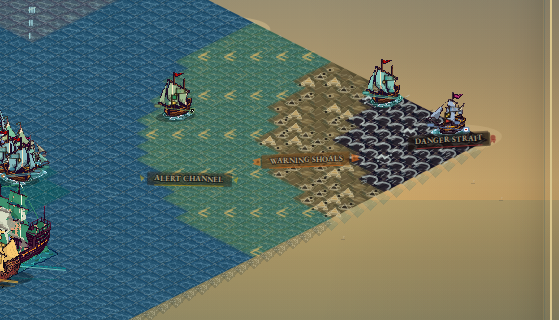
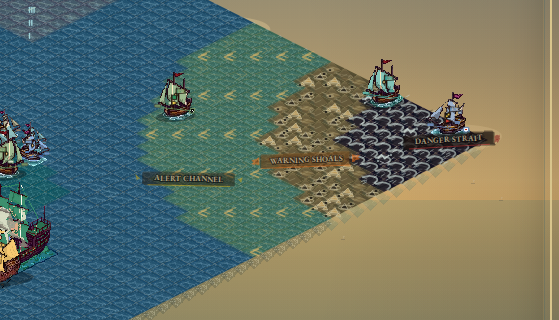
Drop moored-dinghy-north scenery + retire procedural titan/heritage trim
Two related cleanups that had been sitting in the working tree:

1. **Remove moored-dinghy-north scenery.** Drop the `moored-dinghy-north`
   member from `SceneryPropKind`, the placement at (30.4, 41.6), the
   motion-class row, and the dispatch branch in `drawSceneryProp`. The
   associated `props/moored-dinghy-north.png` is no longer referenced
   (manifest entry stays — separate cleanup if desired).

2. **Strip procedural trim from titan + heritage sprites.** Sail trim is
   now baked directly into the painted PNGs, so the runtime overlay
   would just paint duplicate rails/keels/sterns/decks at slightly
   wrong offsets. Removed every titan + unique row from
   `SHIP_TRIM_MARKS` (the 5 standard hulls keep their entries); emptied
   `SHIP_TRIM_COLOR_STORIES`. The drawer in `ships/livery.ts:56` already
   gates on `if (!spec) return;` so the change automatically skips the
   trim pass for these hulls — confirmed by the rewritten
   `drawShipBody titan trim` test that asserts zero `stroke` / `lineTo`
   / `rect` calls.

Test scaffolding updated to match (offset-table tests no longer assert
`SHIP_TRIM_MARKS` for titans/heritage; new `sprite trim config` test
enumerates the 17 painted-detail sprites and asserts the absence).
Visual snapshot for the dense-risk-water fixture rebaked since the
moored-dinghy-north placement was inside its frame.

diff --git a/src/renderer/ship-visual-config.ts b/src/renderer/ship-visual-config.ts
@@ -198,6 +198,9 @@ export const PROCEDURAL_SHIP_PENNANT_MARK: ShipPennantSpec = {
 };
 
 export const SHIP_TRIM_MARKS: Record<string, ShipTrimSpec> = {
+  // Standard hulls only — titan and heritage sprites have their trim baked
+  // directly into the PNG, so the runtime path skips them via the
+  // `if (!spec) return;` gate in `ships/livery.ts:drawTitanTrim`.
   "algo-junk": {
     rail: [-24, -13, 21, -8],
     keel: [-22, -3, 18, 0],
@@ -228,176 +231,11 @@ export const SHIP_TRIM_MARKS: Record<string, ShipTrimSpec> = {
     stern: { x: -31, y: -19, width: 10, height: 5 },
     deck: [{ x: -10, y: -23, width: 8, height: 4 }, { x: 8, y: -21, width: 7, height: 3 }],
   },
-  "ship.usdc-titan": {
-    rail: [-43, -15, 39, -8],
-    keel: [-39, -3, 35, 0],
-    stern: { x: -48, y: -20, width: 11, height: 5 },
-    deck: [{ x: -13, y: -23, width: 9, height: 4 }, { x: 11, y: -20, width: 8, height: 3 }],
-  },
-  "ship.usde-titan": {
-    rail: [-43, -15, 39, -8],
-    keel: [-39, -3, 35, 0],
-    stern: { x: -48, y: -20, width: 11, height: 5 },
-    deck: [{ x: -13, y: -23, width: 9, height: 4 }, { x: 11, y: -20, width: 8, height: 3 }],
-  },
-  "ship.susde-titan": {
-    rail: [-43, -15, 39, -8],
-    keel: [-39, -3, 35, 0],
-    stern: { x: -48, y: -20, width: 11, height: 5 },
-    deck: [{ x: -13, y: -23, width: 9, height: 4 }, { x: 11, y: -20, width: 8, height: 3 }],
-  },
-  "ship.pyusd-titan": {
-    rail: [-43, -15, 39, -8],
-    keel: [-39, -3, 35, 0],
-    stern: { x: -48, y: -20, width: 11, height: 5 },
-    deck: [{ x: -13, y: -23, width: 9, height: 4 }, { x: 11, y: -20, width: 8, height: 3 }],
-  },
-  "ship.usd1-titan": {
-    rail: [-43, -15, 39, -8],
-    keel: [-39, -3, 35, 0],
-    stern: { x: -48, y: -20, width: 11, height: 5 },
-    deck: [{ x: -13, y: -23, width: 9, height: 4 }, { x: 11, y: -20, width: 8, height: 3 }],
-  },
-  "ship.buidl-titan": {
-    rail: [-43, -15, 39, -8],
-    keel: [-39, -3, 35, 0],
-    stern: { x: -48, y: -20, width: 11, height: 5 },
-    deck: [{ x: -13, y: -23, width: 9, height: 4 }, { x: 11, y: -20, width: 8, height: 3 }],
-  },
-  "ship.usyc-unique": {
-    rail: [-43, -15, 39, -8],
-    keel: [-39, -3, 35, 0],
-    stern: { x: -48, y: -20, width: 11, height: 5 },
-    deck: [{ x: -13, y: -23, width: 9, height: 4 }, { x: 11, y: -20, width: 8, height: 3 }],
-  },
-  "ship.usds-titan": {
-    rail: [-44, -18, 40, -8],
-    keel: [-40, -5, 35, 0],
-    stern: { x: -48, y: -26, width: 14, height: 6 },
-    deck: [{ x: -14, y: -29, width: 11, height: 5 }, { x: 12, y: -25, width: 10, height: 4 }],
-  },
-  "ship.usdt-titan": {
-    rail: [-66, -23, 61, -12],
-    keel: [-60, -5, 53, 0],
-    stern: { x: -74, y: -31, width: 18, height: 8 },
-    deck: [{ x: -23, y: -35, width: 15, height: 7 }, { x: 16, y: -30, width: 13, height: 6 }],
-  },
-  // Maker consorts seeded from ship.usds-titan; tuning in Task 7.5.
-  "ship.dai-titan": {
-    rail: [-44, -18, 40, -8],
-    keel: [-40, -5, 35, 0],
-    stern: { x: -48, y: -26, width: 14, height: 6 },
-    deck: [{ x: -14, y: -29, width: 11, height: 5 }, { x: 12, y: -25, width: 10, height: 4 }],
-  },
-  "ship.susds-titan": {
-    rail: [-44, -18, 40, -8],
-    keel: [-40, -5, 35, 0],
-    stern: { x: -48, y: -26, width: 14, height: 6 },
-    deck: [{ x: -14, y: -29, width: 11, height: 5 }, { x: 12, y: -25, width: 10, height: 4 }],
-  },
-  "ship.sdai-titan": {
-    rail: [-44, -18, 40, -8],
-    keel: [-40, -5, 35, 0],
-    stern: { x: -48, y: -26, width: 14, height: 6 },
-    deck: [{ x: -14, y: -29, width: 11, height: 5 }, { x: 12, y: -25, width: 10, height: 4 }],
-  },
-  "ship.stusds-titan": {
-    rail: [-44, -18, 40, -8],
-    keel: [-40, -5, 35, 0],
-    stern: { x: -48, y: -26, width: 14, height: 6 },
-    deck: [{ x: -14, y: -29, width: 11, height: 5 }, { x: 12, y: -25, width: 10, height: 4 }],
-  },
-  // Unique heritage hulls (136x100, anchor [68,92]). Trim offsets sit between
-  // the standard galleon (104x80) and the titan hulls (144x104+).
-  "ship.crvusd-unique": {
-    rail: [-38, -16, 36, -7],
-    keel: [-36, -4, 32, 0],
-    stern: { x: -42, y: -22, width: 12, height: 5 },
-    deck: [{ x: -12, y: -25, width: 10, height: 4 }, { x: 10, y: -22, width: 9, height: 4 }],
-  },
-  "ship.bold-unique": {
-    rail: [-38, -16, 36, -7],
-    keel: [-36, -4, 32, 0],
-    stern: { x: -42, y: -23, width: 12, height: 5 },
-    deck: [{ x: -12, y: -26, width: 10, height: 4 }, { x: 10, y: -23, width: 9, height: 4 }],
-  },
-  "ship.fxusd-unique": {
-    rail: [-38, -15, 36, -7],
-    keel: [-36, -4, 32, 0],
-    stern: { x: -42, y: -21, width: 12, height: 5 },
-    deck: [{ x: -12, y: -24, width: 10, height: 4 }, { x: 10, y: -21, width: 9, height: 4 }],
-  },
-  "ship.xaut-unique": {
-    rail: [-38, -14, 36, -6],
-    keel: [-36, -3, 32, 0],
-    stern: { x: -42, y: -19, width: 12, height: 5 },
-    deck: [{ x: -12, y: -22, width: 10, height: 4 }, { x: 10, y: -19, width: 9, height: 4 }],
-  },
-  "ship.paxg-unique": {
-    rail: [-38, -17, 36, -8],
-    keel: [-36, -4, 32, 0],
-    stern: { x: -42, y: -23, width: 12, height: 5 },
-    deck: [{ x: -12, y: -26, width: 10, height: 4 }, { x: 10, y: -23, width: 9, height: 4 }],
-  },
 };
 
 export const SHIP_TRIM_COLOR_STORIES: Record<string, ShipTrimColorStory> = {
-  "ship.usdc-titan": {
-    rail: "#b77a3d",
-    secondaryRail: "#f0c47c",
-    keel: "#6d4931",
-    sternFill: "#d49a3e",
-    sternStroke: "#5b3a24",
-    deckFill: "#f0d28c",
-    deckStroke: "#9a662f",
-  },
-  "ship.usdt-titan": {
-    rail: "#009393",
-    secondaryRail: "#78d7c8",
-    keel: "#006a69",
-    sternFill: "#d6c08b",
-    sternStroke: "#005252",
-    deckFill: "#efe4c2",
-    deckStroke: "#007d7b",
-  },
-  "ship.usde-titan": {
-    rail: "#7e58c8",
-    secondaryRail: "#d8c7ff",
-    railDash: [5, 3],
-    keel: "#342451",
-    sternFill: "#b99af2",
-    sternStroke: "#221736",
-    deckFill: "#e6dbff",
-    deckStroke: "#6d4bb0",
-  },
-  "ship.pyusd-titan": {
-    rail: "#1f477a",
-    secondaryRail: "#88b7e8",
-    keel: "#172a44",
-    sternFill: "#7fa6d8",
-    sternStroke: "#14233a",
-    deckFill: "#dbe9f8",
-    deckStroke: "#1f477a",
-  },
-  "ship.buidl-titan": {
-    rail: "#141414",
-    secondaryRail: "#d8b15f",
-    keel: "#070707",
-    sternFill: "#2a2a28",
-    sternStroke: "#c8a75b",
-    deckFill: "#d8b15f",
-    deckStroke: "#15110a",
-  },
-  "ship.usd1-titan": {
-    rail: "#c89a2f",
-    secondaryRail: "#f4df8f",
-    railDash: [4, 2],
-    keel: "#6b4c16",
-    sternFill: "#f1c95f",
-    sternStroke: "#5c4317",
-    deckFill: "#fff0a8",
-    deckStroke: "#b7821e",
-  },
+  // Titan trim color stories used to live here. Removed alongside the
+  // SHIP_TRIM_MARKS titan rows when trim was baked into the painted sprite.
 };
 
 export const TITAN_SPRITE_IDS: ReadonlySet<string> = new Set([

diff --git a/src/renderer/layers/ships.test.ts b/src/renderer/layers/ships.test.ts
@@ -19,7 +19,6 @@ import {
   resolveTitanBowSprayStrands,
   SHIP_PENNANT_MARKS,
   SHIP_SAIL_MARKS,
-  SHIP_TRIM_COLOR_STORIES,
   SHIP_TRIM_MARKS,
   shipMastTopScreenPoint,
   titanPathCacheStats,
@@ -150,7 +149,7 @@ describe("drawSquadIdentityAccent", () => {
 // --- Per-titan offset table coverage ---------------------------------------
 
 describe("Maker squad titan offset tables", () => {
-  it("every Maker squad titan sprite is registered in all per-titan offset tables", () => {
+  it("every Maker squad titan sprite is registered in sail and tint offset tables", () => {
     const titanIds = [
       "ship.usds-titan",
       "ship.dai-titan",
@@ -161,28 +160,38 @@ describe("Maker squad titan offset tables", () => {
     for (const titanId of titanIds) {
       expect(TITAN_SPRITE_IDS.has(titanId)).toBe(true);
       expect(SHIP_SAIL_MARKS[titanId]).toBeDefined();
-      expect(SHIP_TRIM_MARKS[titanId]).toBeDefined();
       expect(SHIP_SAIL_TINT_MASKS[titanId]).toBeDefined();
     }
   });
 });
 
-describe("titan trim color stories", () => {
-  it("registers the procedural trim story for every Wave 2 titan target", () => {
-    for (const titanId of [
+describe("sprite trim config", () => {
+  it("keeps procedural trim on standard hull sprites only", () => {
+    for (const hull of ["treasury-galleon", "chartered-brigantine", "dao-schooner", "crypto-caravel", "algo-junk"]) {
+      expect(SHIP_TRIM_MARKS[hull]).toBeDefined();
+    }
+
+    for (const richSpriteId of [
       "ship.usdc-titan",
       "ship.usdt-titan",
       "ship.usde-titan",
       "ship.pyusd-titan",
       "ship.buidl-titan",
       "ship.usd1-titan",
+      "ship.usds-titan",
+      "ship.dai-titan",
+      "ship.susds-titan",
+      "ship.sdai-titan",
+      "ship.stusds-titan",
+      "ship.crvusd-unique",
+      "ship.bold-unique",
+      "ship.fxusd-unique",
+      "ship.xaut-unique",
+      "ship.paxg-unique",
+      "ship.usyc-unique",
     ]) {
-      expect(SHIP_TRIM_MARKS[titanId]).toBeDefined();
-      expect(SHIP_TRIM_COLOR_STORIES[titanId]).toBeDefined();
+      expect(SHIP_TRIM_MARKS[richSpriteId], `${richSpriteId} should rely on painted sprite detail`).toBeUndefined();
     }
-    expect(SHIP_TRIM_COLOR_STORIES["ship.usdt-titan"]!.rail).toBe("#009393");
-    expect(SHIP_TRIM_COLOR_STORIES["ship.usde-titan"]!.railDash).toEqual([5, 3]);
-    expect(SHIP_TRIM_COLOR_STORIES["ship.usd1-titan"]!.secondaryRail).toBe("#f4df8f");
   });
 });
 
@@ -507,7 +516,7 @@ describe("titan bow spray orientation", () => {
 // --- Per-unique offset table coverage --------------------------------------
 
 describe("Unique ship offset tables", () => {
-  it("every unique-tier sprite is registered in all per-sprite offset tables", () => {
+  it("every unique-tier sprite is registered in sail and tint offset tables", () => {
     const uniqueIds = [
       "ship.crvusd-unique",
       "ship.xaut-unique",
@@ -515,7 +524,6 @@ describe("Unique ship offset tables", () => {
     ];
     for (const uniqueId of uniqueIds) {
       expect(SHIP_SAIL_MARKS[uniqueId]).toBeDefined();
-      expect(SHIP_TRIM_MARKS[uniqueId]).toBeDefined();
       expect(SHIP_SAIL_TINT_MASKS[uniqueId]).toBeDefined();
     }
   });
@@ -604,7 +612,7 @@ describe("drawShipBody for unique sprites", () => {
 });
 
 describe("drawShipBody titan trim", () => {
-  it("draws procedural trim over titan sprites without changing asset bytes", () => {
+  it("renders titan sprites without runtime trim strokes or deck rectangles", () => {
     const drawAnimatedAssetMock = vi.mocked(canvasPrimitives.drawAnimatedAssetSubpixel);
     drawAnimatedAssetMock.mockClear();
 
@@ -668,8 +676,9 @@ describe("drawShipBody titan trim", () => {
     drawShipBody(input, frame, titan);
 
     expect(drawAnimatedAssetMock).toHaveBeenCalledTimes(1);
-    expect(ctx.calls.some((call) => call.method === "lineTo")).toBe(true);
-    expect(ctx.calls.filter((call) => call.method === "stroke").length).toBeGreaterThanOrEqual(3);
+    expect(ctx.calls.some((call) => call.method === "lineTo")).toBe(false);
+    expect(ctx.calls.some((call) => call.method === "stroke")).toBe(false);
+    expect(ctx.calls.some((call) => call.method === "rect")).toBe(false);
   });
 
   it("holds four-frame titan sheets on a deterministic frame and lets pose carry motion", () => {

diff --git a/src/renderer/layers/scenery.test.ts b/src/renderer/layers/scenery.test.ts
@@ -20,7 +20,19 @@ const TIME_DEPENDENT_SCENERY_KINDS: readonly SceneryPropKind[] = [
   "harbor-bell",
   "harbor-lamp",
   "moored-dinghy-east",
-  "moored-dinghy-north",
+  "net-rack",
+  "rope-coil",
+  "sundial",
+];
+
+const EXPECTED_DYNAMIC_SCENERY_PLACEMENT_KINDS: readonly SceneryPropKind[] = [
+  "barrel",
+  "buoy",
+  "cargo-stack",
+  "crate-stack",
+  "harbor-bell",
+  "harbor-lamp",
+  "moored-dinghy-east",
   "net-rack",
   "rope-coil",
   "sundial",
@@ -51,11 +63,16 @@ describe("civic vegetation scenery", () => {
 
 describe("scenery motion classification", () => {
   it("classifies bobbing, swaying, wobbling, lit, and wall-clock scenery as dynamic", () => {
-    const dynamicPlacedKinds = new Set(DYNAMIC_SCENERY_PROPS.map((prop) => prop.kind));
-
     for (const kind of TIME_DEPENDENT_SCENERY_KINDS) {
       expect(sceneryMotionClassForKind(kind), `${kind} should be dynamic`).toBe("dynamic");
       expect(DYNAMIC_SCENERY_KINDS.has(kind), `${kind} is missing from dynamic kind set`).toBe(true);
+    }
+  });
+
+  it("places expected dynamic scenery families", () => {
+    const dynamicPlacedKinds = new Set(DYNAMIC_SCENERY_PROPS.map((prop) => prop.kind));
+
+    for (const kind of EXPECTED_DYNAMIC_SCENERY_PLACEMENT_KINDS) {
       expect(dynamicPlacedKinds.has(kind), `${kind} has no dynamic scenery placement`).toBe(true);
     }
   });

diff --git a/src/renderer/layers/scenery.ts b/src/renderer/layers/scenery.ts
@@ -28,7 +28,6 @@ export type SceneryPropKind =
   | "lantern-string"
   | "mooring-posts"
   | "moored-dinghy-east"
-  | "moored-dinghy-north"
   | "net-rack"
   | "olive-tree"
   | "planter-lavender"
@@ -130,7 +129,6 @@ export const SCENERY_PROPS: readonly SceneryProp[] = [
   { id: "cemetery-reeds", kind: "reed-bed", tile: { x: 6.2, y: 48.2 }, scale: 0.52 },
   { id: "lighthouse-lamp", kind: "harbor-lamp", tile: { x: 17.2, y: 29.0 }, scale: 0.7 },
   { id: "harbor-dinghy-east", kind: "moored-dinghy-east", tile: { x: 43.6, y: 32.4 }, scale: 0.62 },
-  { id: "harbor-dinghy-south", kind: "moored-dinghy-north", tile: { x: 30.4, y: 41.6 }, scale: 0.6 },
   { id: "harbor-bell-bsc", kind: "harbor-bell", tile: { x: 22.4, y: 35.2 }, scale: 0.66 },
   { id: "harbor-bell-lighthouse", kind: "harbor-bell", tile: { x: 19.6, y: 27.8 }, scale: 0.6 },
   { id: "harbor-cargo-bsc", kind: "cargo-stack", tile: { x: 21.6, y: 37.4 }, scale: 0.62 },
@@ -191,7 +189,6 @@ export const SCENERY_MOTION_CLASS_BY_KIND = {
   "lantern-string": "dynamic",
   "mooring-posts": "static",
   "moored-dinghy-east": "dynamic",
-  "moored-dinghy-north": "dynamic",
   "net-rack": "dynamic",
   "olive-tree": "static",
   "planter-lavender": "static",
@@ -465,9 +462,6 @@ export function drawSceneryProp(input: DrawPharosVilleInput, prop: SceneryProp) 
   } else if (prop.kind === "agave-cluster") {
     const sprite = input.assets?.get("prop.agave-cluster");
     if (sprite) drawAsset(ctx, sprite, p.x, p.y, scale);
-  } else if (prop.kind === "moored-dinghy-north") {
-    const sprite = input.assets?.get("prop.moored-dinghy-north");
-    if (sprite) drawDinghy(ctx, sprite, p.x, p.y, scale, time, prop.tile);
   } else if (prop.kind === "moored-dinghy-east") {
     const sprite = input.assets?.get("prop.moored-dinghy-east");
     if (sprite) drawDinghy(ctx, sprite, p.x, p.y, scale, time, prop.tile);